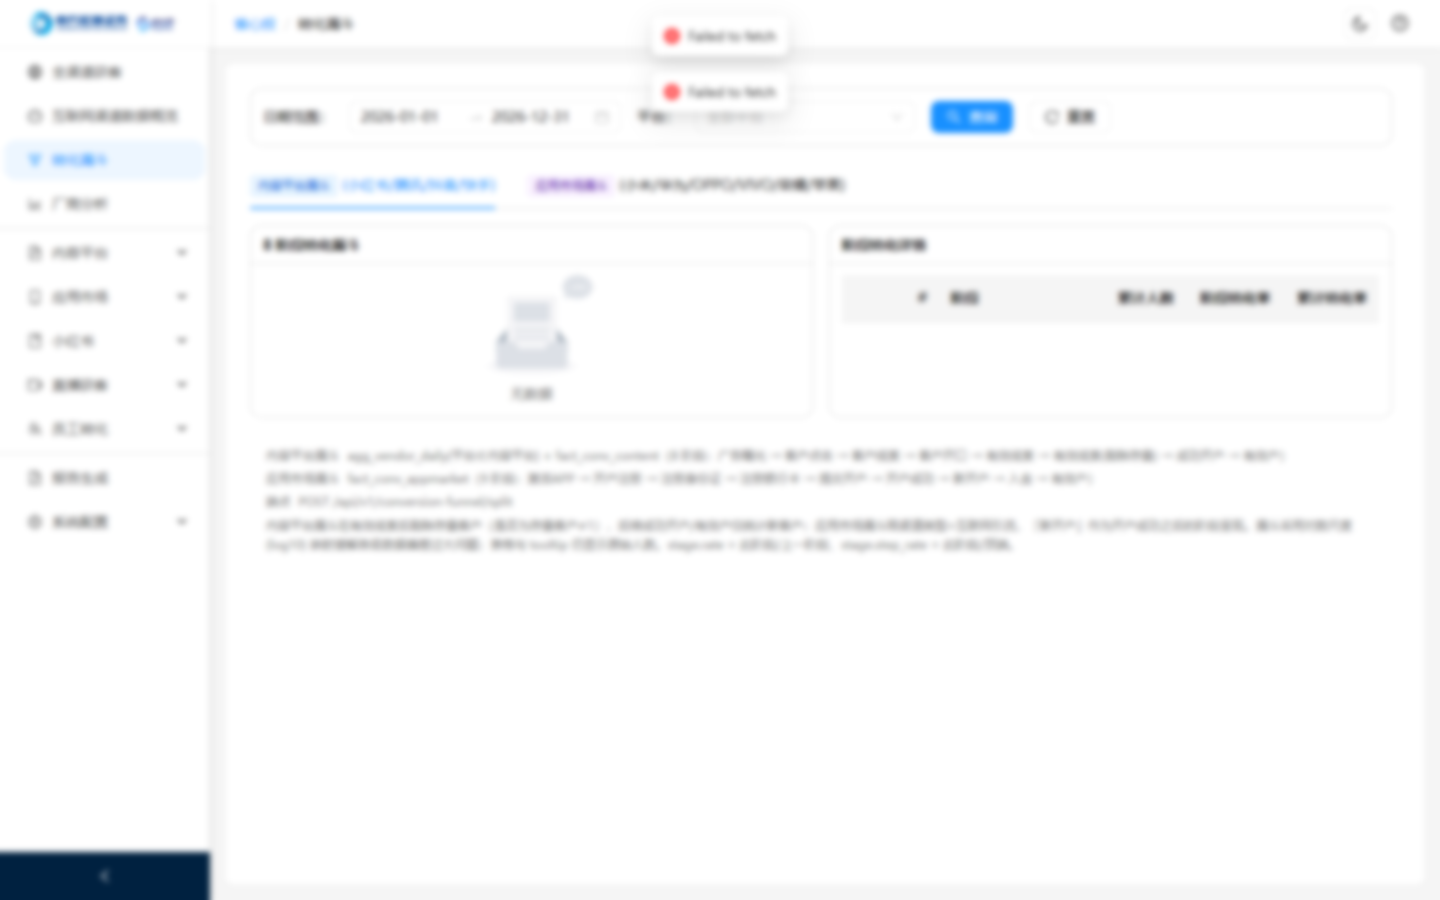
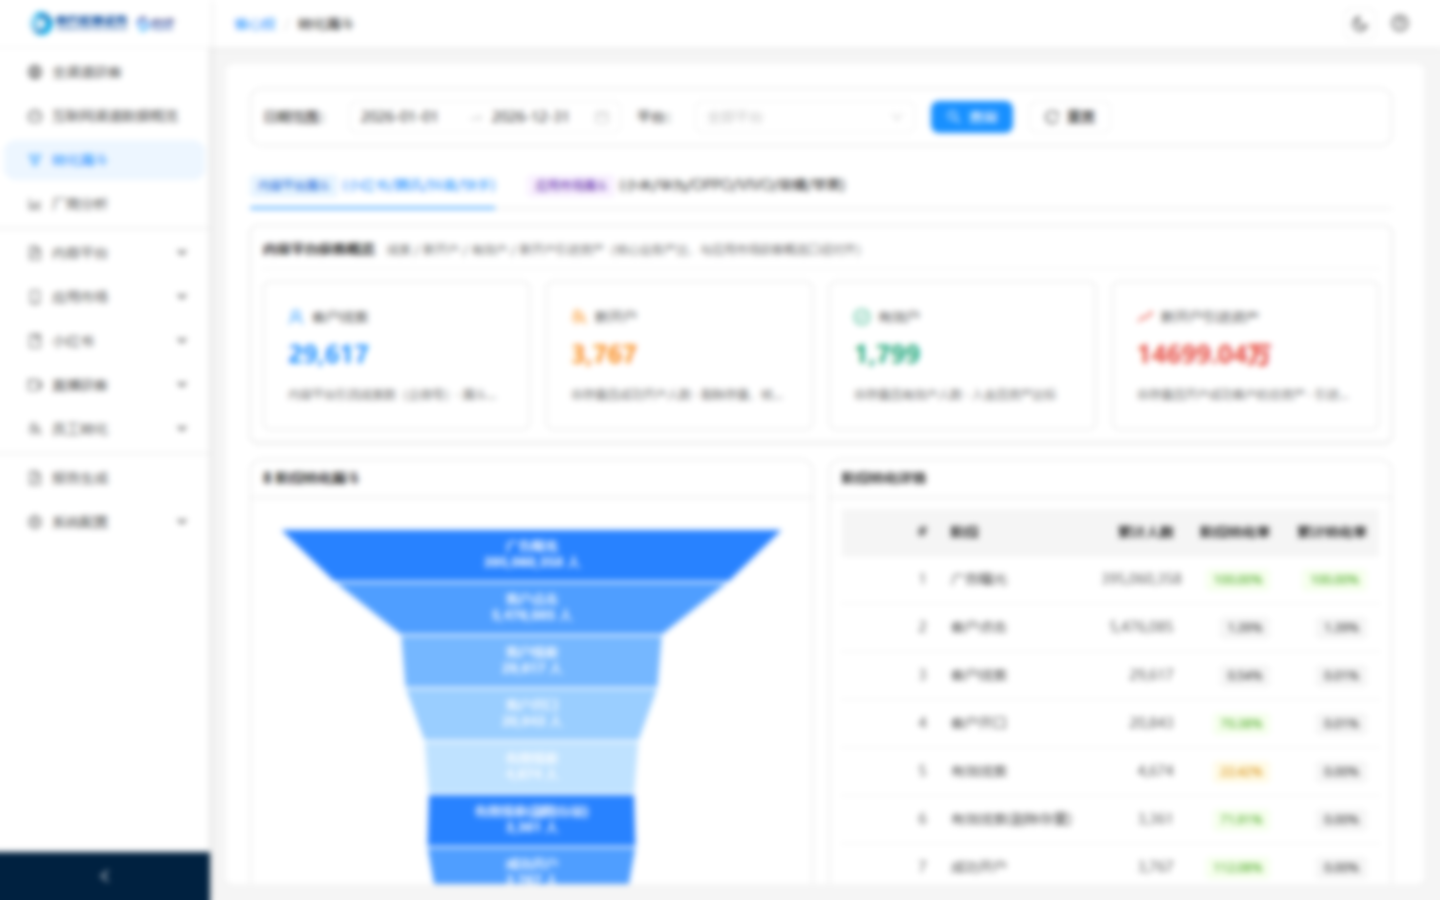
fix(website): 截图重新从本地 Web 端截取（后端已启动，有真实数据）
- 启动 Flask 后端（:5000），API 返回真实业务数据
- 截图等待时间从 2.5s 增至 5s，确保图表渲染完成
- dashboard 文件大小 104KB→248KB，funnel 方差 238→1778，图表内容真实
- 模糊半径仍为 3，文字不可读但 UI 结构与图表清晰

diff --git a/scripts/capture_site_screenshots.py b/scripts/capture_site_screenshots.py
@@ -40,7 +40,8 @@ def capture(page, route: str, filename: str):
     url = f"{BASE_URL}/{route}" if route else BASE_URL + "/"
     print(f"  → {url}")
     page.goto(url, wait_until="networkidle")
-    time.sleep(2.5)
+    # 等 5 秒确保 API 请求返回 + 图表动画完成
+    time.sleep(5)
     out = OUT_DIR / filename
     page.screenshot(path=str(out), full_page=False)
     soft_blur(out)
